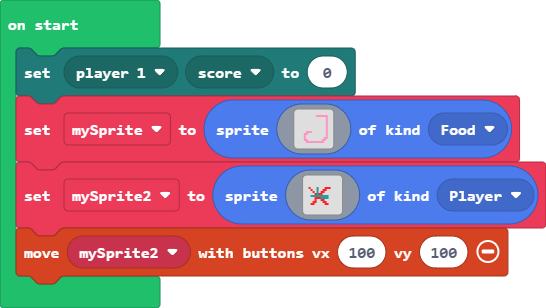
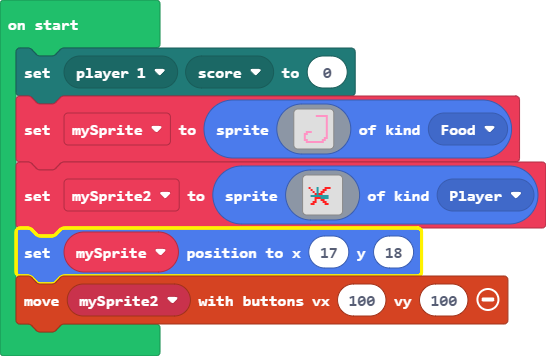
Update main.blocks, main.ts

diff --git a/main.ts b/main.ts
@@ -1,4 +1,5 @@
 mp.setPlayerState(mp.playerSelector(mp.PlayerNumber.One), MultiplayerState.score, 0)
 let mySprite = sprites.create(assets.image`myImage3`, SpriteKind.Food)
 let mySprite2 = sprites.create(assets.image`testsprite`, SpriteKind.Player)
+mySprite.setPosition(17, 18)
 controller.moveSprite(mySprite2, 100, 100)
